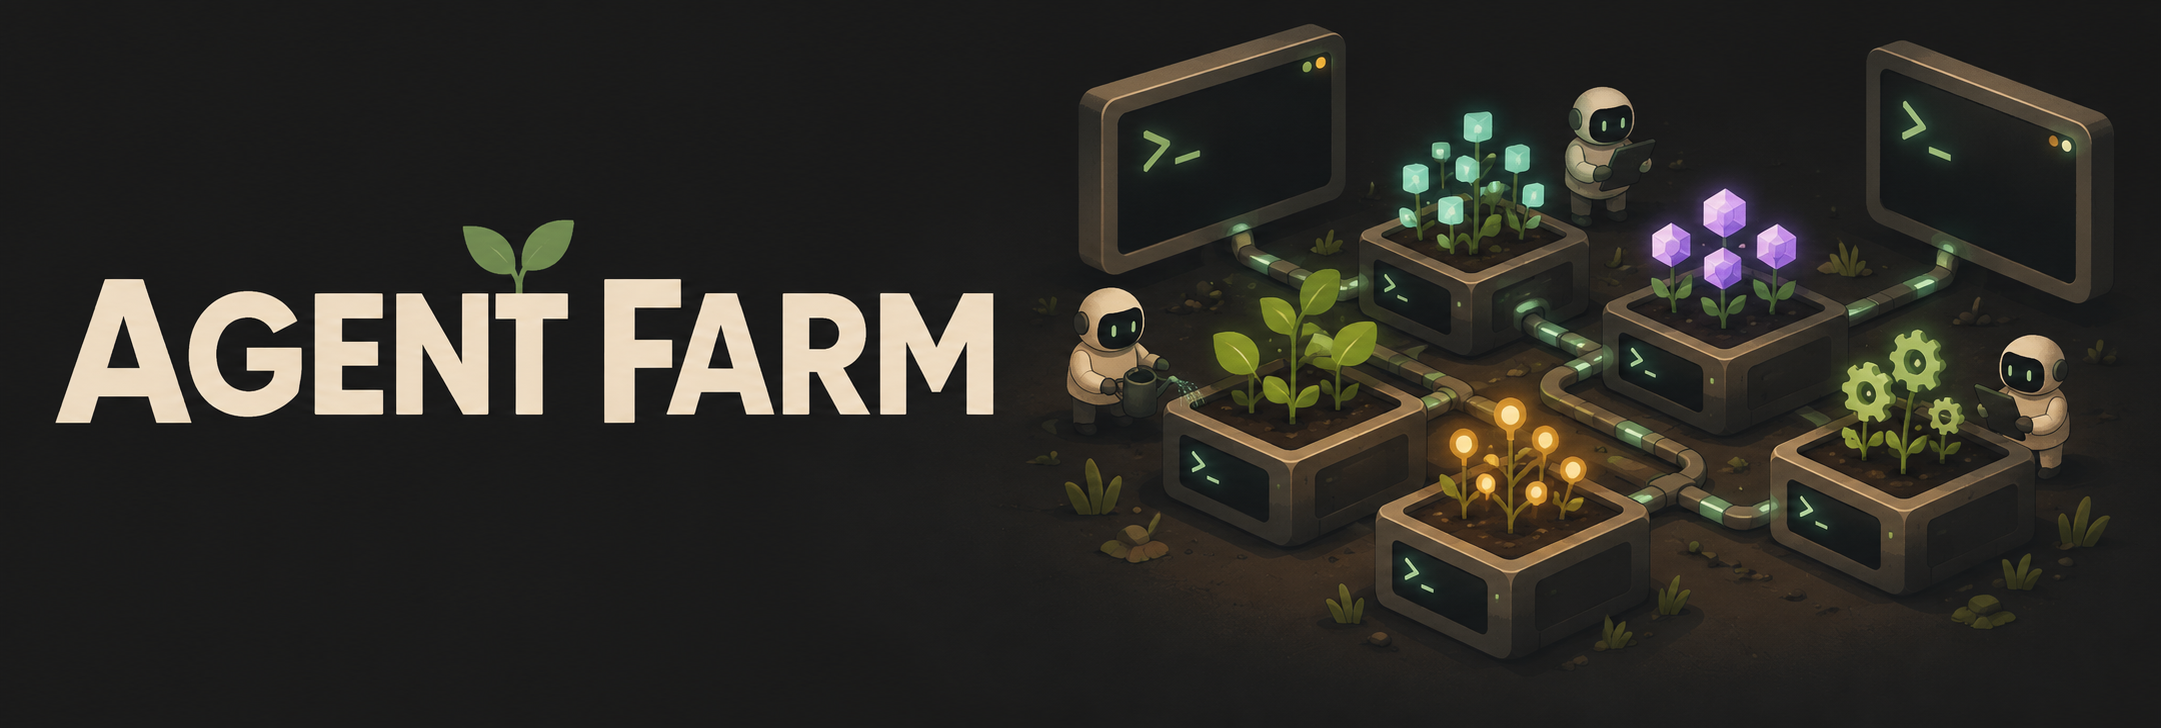
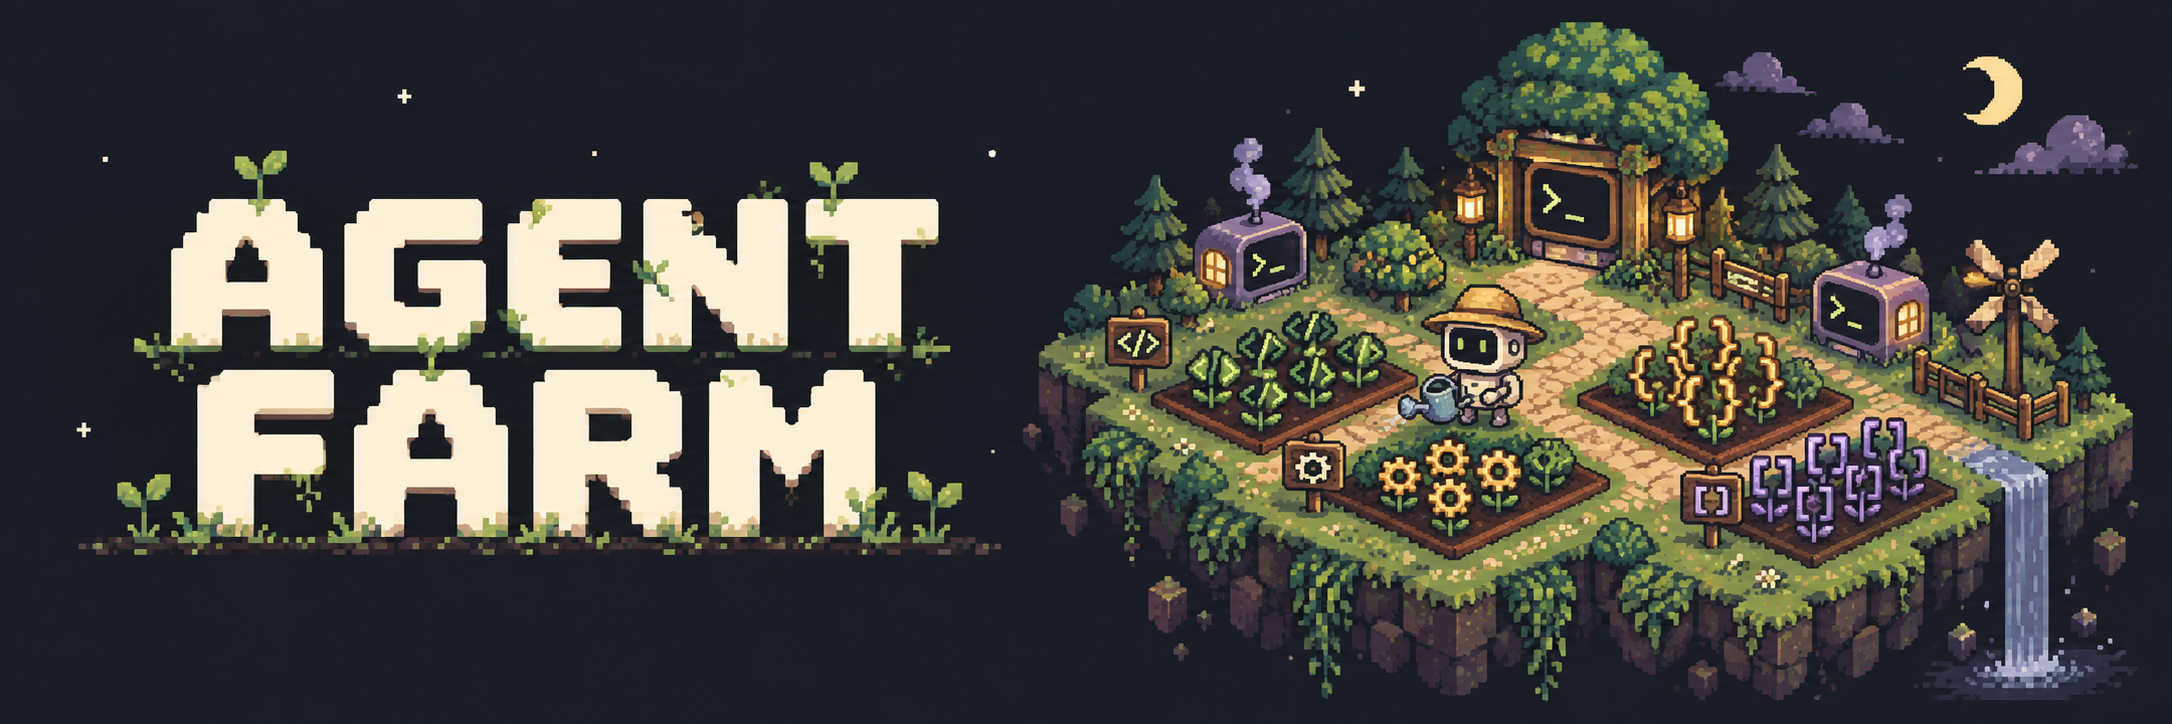
Adopt pixel-farm artwork and README style guidance

diff --git a/docs/assets/banner-prompt.md b/docs/assets/banner-prompt.md
@@ -1,13 +1,14 @@
 # Agent Farm banner
 
-Generated with the built-in image-generation tool. Output: `agent-farm-banner.png`.
+Approved direction: option 2, Pixel farm. Generated with the built-in image-generation tool.
+Output: `agent-farm-banner.png`. See [visual-style.md](visual-style.md) for future README images.
 
 ## Prompt
 
 Use case: stylized-concept
-Asset type: wide GitHub README hero banner for the developer project Agent Farm, approximately 3:1 landscape.
-Primary request: a polished, distinctive illustration of a miniature agent farm: an isometric arrangement of small terminal-shaped growing beds, each cultivating a different tidy cluster of luminous abstract code sprouts, suggesting selecting different skills for different agents. A few branching connector paths connect the beds to two larger terminal windows. Restrained, sophisticated developer-tool visual identity; charming but not childish.
-Style: crisp editorial illustration with subtle dimensional shading and a little tactile grain; simple forms, generous negative space, excellent legibility at GitHub README width.
-Composition: title area on the left, miniature farm scene on the right, balanced across a wide short banner. Dark charcoal background with warm cream type and restrained green/amber accents.
-Text verbatim: "AGENT FARM". Only this text, large clean typography, no subtitle or other text.
-Avoid: third-party logos, literal code text, clutter, neon cyberpunk, photorealism, stock-photo aesthetics, watermarks. Render a finished banner with opaque background.
+Asset type: finished wide GitHub README hero banner for Agent Farm, 3:1 landscape, preferably 2304x768.
+Project context: Agent Farm selects saved skill configurations for native coding terminals.
+Primary request: an exceptionally charming pixel-art terminal farm, like a beautifully art-directed indie developer game title screen. A midnight charcoal canvas with warm cream title and restrained moss, mint, gold, and lilac. On the right a small isometric farm island with neat skill crop plots, little terminal-shaped huts, one tiny robot farmer tending geometric code sprouts, and paths linking the plots to a terminal gate. Meticulous crisp pixel work, coherent pixel grid, carefully placed lighting and lovely silhouettes. Playful but sophisticated, no blur or painterly texture.
+Composition: large clear pixel title on left, compact farm scene on right, generous negative space and safe margins. Must read well at 900px display width.
+Text verbatim: "AGENT FARM". Only these words, beautifully readable chunky pixel typography.
+Constraints: opaque background, no extra copy, no third-party logos, no watermark, no UI controls or fake app screenshots, no excessive detail.

diff --git a/docs/assets/visual-style.md b/docs/assets/visual-style.md
@@ -1,0 +1,39 @@
+# README visual style
+
+The approved direction is **Pixel farm**, selected from three banner concepts.
+The canonical visual reference is [agent-farm-banner.png](agent-farm-banner.png).
+Use this theme for all future README illustrations.
+
+## Art direction
+
+- Crisp pixel art with a consistent pixel scale, clear silhouettes, and an isometric farm setting.
+- Midnight charcoal backgrounds; warm cream lettering; moss and mint greens with muted gold and lilac accents.
+- Cozy nighttime lighting from lanterns and terminal screens. Playful, carefully crafted indie-game atmosphere.
+- Terminal-shaped huts, tidy skill crop plots, code-symbol sprouts, connecting paths, and the small cream robot farmer with a straw hat.
+- Generous negative space and a clear focal point. Keep details legible at typical GitHub README width.
+- Use chunky pixel lettering sparingly. Keep explanations, commands, and technical labels in accessible Markdown.
+
+Avoid photorealism, smooth 3D renders, painterly blur, serif poster typography,
+bright neon, third-party logos, or fabricated product screenshots.
+Real terminal screenshots and technical diagrams should remain accurate and readable;
+do not redraw their contents as decorative pixel art.
+
+## Creating another image
+
+Inspect and supply the approved banner as a style reference to the image-generation
+tool. Preserve its palette, pixel treatment, lighting, and character design while
+changing the scene to suit the section. A text prompt alone is not the reference.
+Save the generated asset and its final prompt in this directory, and check it
+alongside the banner at README display size before using it.
+
+Reusable prompt opening:
+
+> Create a README illustration for Agent Farm matching the supplied approved
+> pixel-farm banner. Treat it as a style reference: preserve its crisp pixel art,
+> midnight charcoal background, warm cream, moss/mint green, muted gold and lilac
+> palette, cozy lantern lighting, isometric farm world, and robot character design
+> when present. Adapt the scene to: [section subject]. Keep the composition simple
+> and readable at GitHub README width. No text unless explicitly requested, no
+> third-party logos, no watermark, no fake product UI.
+
+The banner's generation prompt is recorded in [banner-prompt.md](banner-prompt.md).

diff --git a/AGENTS.md b/AGENTS.md
@@ -5,3 +5,5 @@ Native Claude/Codex CLI launcher. Node 22.15+, pnpm 11, TypeScript.
 Run `pnpm typecheck` and `pnpm test` before committing runtime changes.
 `plugins/dcouple/` is generated from dcouple/skills; update it through that repository’s publish command. Never put credentials or local workspace connections in a plugin.
 Use HTTPS for git. Do not commit tmp/, dist/, node_modules/, or .DS_Store.
+
+README illustrations must follow the approved pixel-farm theme in `docs/assets/visual-style.md`. Use `docs/assets/agent-farm-banner.png` as the visual reference for new images.

diff --git a/README.md b/README.md
@@ -1,4 +1,4 @@
-![Agent Farm — distinct skill gardens connected to native terminals](docs/assets/agent-farm-banner.png)
+![Agent Farm — a pixel-art robot tending skill crops beside native terminal huts](docs/assets/agent-farm-banner.png)
 
 # Agent Farm
 
